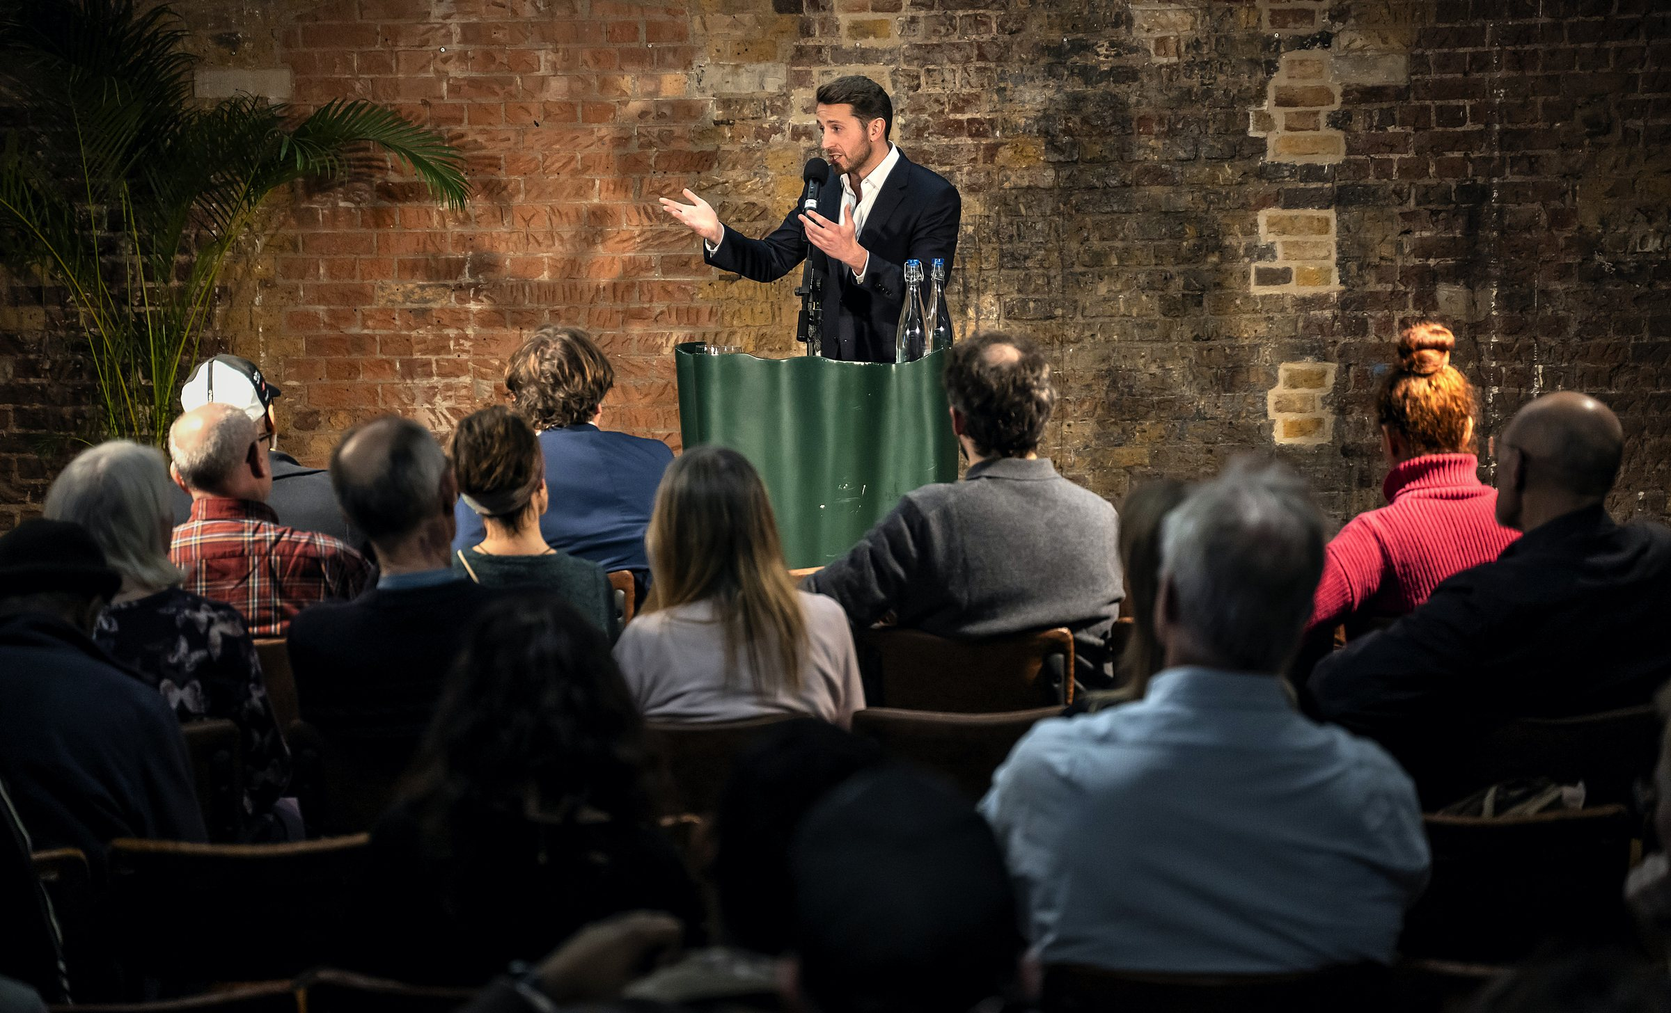
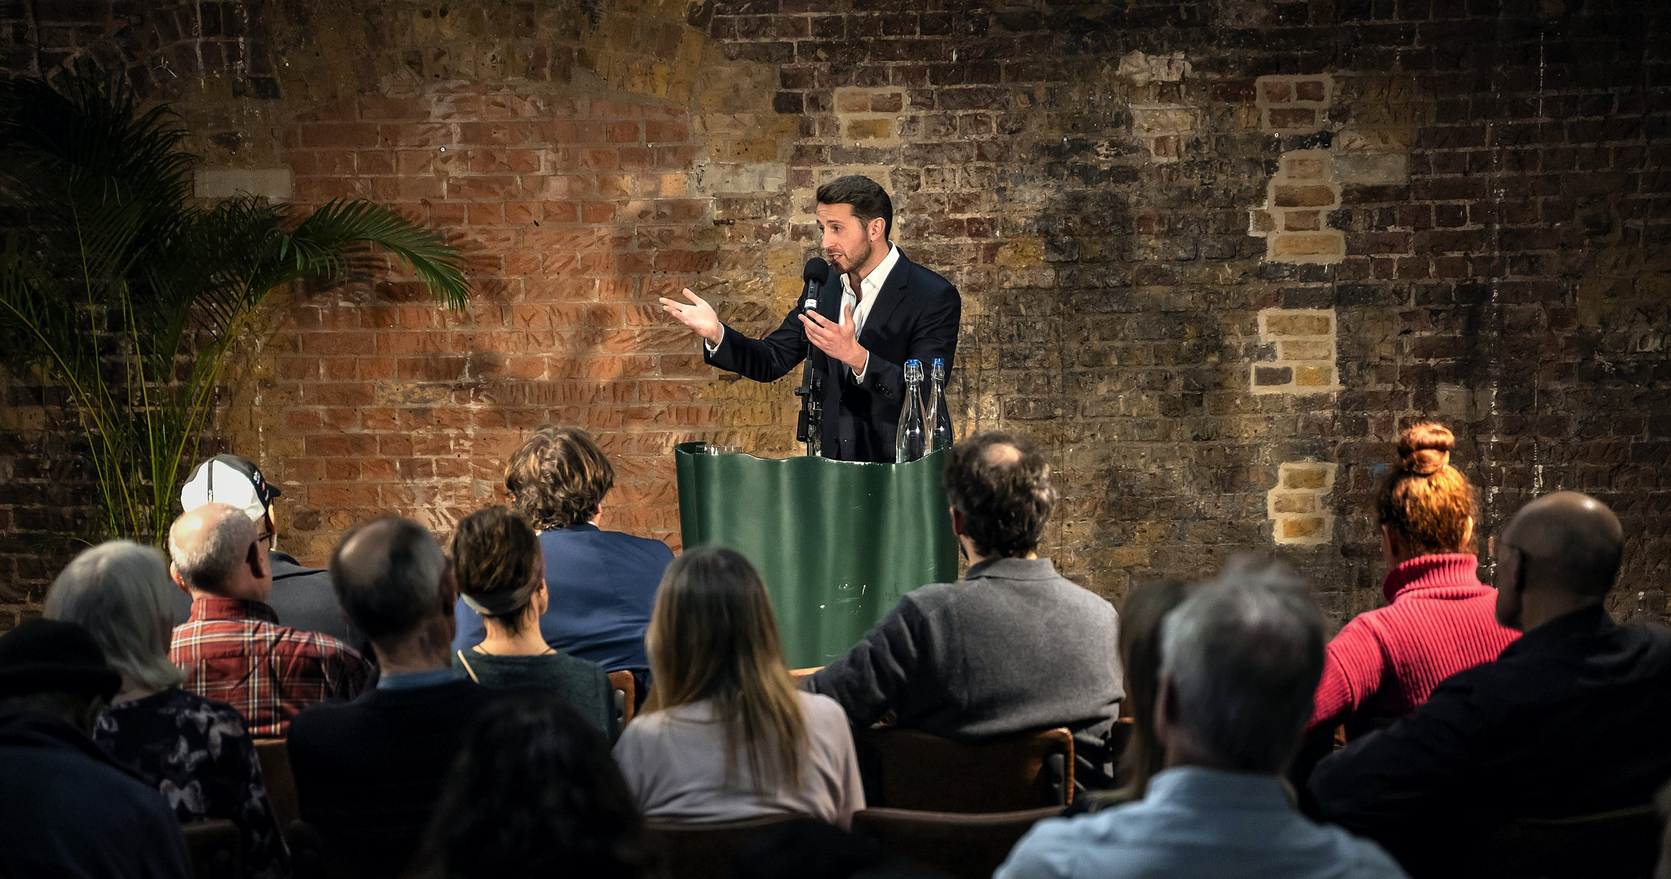
Personal brand: midnight and white, no gold, editorial serif
Own identity, separate from ExecProsec's navy and gold. Ground #05070C, a cool
steel-blue for labels, white buttons with dark ink. Instrument Serif carries the
name, the numbers and panel headlines; Inter carries everything else.

Also: rebuilt the homepage crop so his face is never cut by the header, retuned
every panel's focal point, and cut the Photographs page from 37 to a curated 18
with no two shots from the same set.

diff --git a/index.html b/index.html
@@ -8,30 +8,31 @@
 <link rel="icon" type="image/svg+xml" href="favicon.svg">
 <style>
   *{box-sizing:border-box;margin:0;padding:0}
-  :root{--ink:#050608;--gold:#C6A15B;--soft:rgba(244,245,247,.62);
+  :root{--ink:#05070C;--navy:#0B1220;--gold:#9FB4D4;--soft:rgba(255,255,255,.64);--hair:rgba(255,255,255,.12);
     /* HERO FACE-FOCUS RULE — Marcus's face is always the focal point of the hero.
        The background locks onto these coordinates so, no matter what else changes
        on the site, his face stays consistently and pleasingly placed. If the hero
        image (mjb-bg.jpg) is ever replaced, update ONLY these three values. */
     --hero-zoom:118%;  /* how far to zoom in on the face (background-size height) */
     --hero-x:50%;      /* face horizontal focal position */
-    --hero-y:46%}       /* vertical focal: top of head sits just under the titles (clear gap), only the tops of the audience peek in at the bottom */
-  @font-face{font-family:'Archivo';src:url('fonts/archivo-latin.woff2') format('woff2');font-weight:300 700;font-style:normal;font-display:swap}
+    --hero-y:32%}       /* vertical focal: top of head sits just under the titles (clear gap), only the tops of the audience peek in at the bottom */
+  @font-face{font-family:'Inter';src:url('fonts/inter-latin.woff2') format('woff2');font-weight:300 700;font-style:normal;font-display:swap}
+  @font-face{font-family:'Instrument Serif';src:url('fonts/instrument-serif-latin.woff2') format('woff2');font-weight:400;font-style:normal;font-display:swap}
   html,body{height:100%}
-  body{font-family:'Archivo',-apple-system,'Segoe UI',Helvetica,Arial,sans-serif;background:var(--ink);color:#fff;-webkit-font-smoothing:antialiased;overflow:hidden}
+  body{font-family:'Inter',-apple-system,'Segoe UI',Helvetica,Arial,sans-serif;background:var(--ink);color:#fff;-webkit-font-smoothing:antialiased;overflow:hidden}
   /* HERO with photo on the right (drop your photo in as hero.jpg) */
   .hero{position:relative;height:100vh;min-height:600px;overflow:hidden}
   .hero .bg{position:absolute;inset:0;background:transparent;display:none}
-  .hero .grad{position:absolute;inset:0;background:linear-gradient(95deg,rgba(5,6,8,.92) 0%,rgba(5,6,8,.8) 28%,rgba(5,6,8,.5) 48%,rgba(5,6,8,.18) 68%,rgba(5,6,8,.03) 100%)}
+  .hero .grad{position:absolute;inset:0;background:linear-gradient(95deg,rgba(5,7,12,.92) 0%,rgba(5,7,12,.8) 28%,rgba(5,7,12,.5) 48%,rgba(5,7,12,.18) 68%,rgba(5,7,12,.03) 100%)}
   .hero .vig{position:absolute;inset:0;background:radial-gradient(120% 120% at 70% 40%,rgba(0,0,0,0) 40%,rgba(0,0,0,.45) 100%)}
   /* rotating hero carousel — JS crossfades the .slide layers every 4s */
-  .hero .herobg{position:absolute;inset:0;background:#050608 url('mjb-home.jpg') var(--hero-x) var(--hero-y)/cover no-repeat}
+  .hero .herobg{position:absolute;inset:0;background:#05070C url('mjb-home.jpg') var(--hero-x) var(--hero-y)/cover no-repeat}
   @media(max-width:900px){.hero .herobg{background-size:cover;background-position:var(--hero-x) var(--hero-y)}}
   .hero .svid video{width:100%;height:100%;object-fit:cover;display:block}
   /* social-proof metrics */
   .metrics{display:flex;justify-content:center;gap:46px;margin:22px auto 6px;flex-wrap:wrap}
   .metric{text-align:center;min-width:110px}
-  .metric b{display:block;font-size:29px;font-weight:700;color:#fff;line-height:1}
+  .metric b{display:block;font-family:'Instrument Serif',Georgia,serif;font-size:40px;font-weight:400;letter-spacing:.01em;color:#fff;line-height:1}
   .metric span{display:block;font-size:10.5px;letter-spacing:.16em;text-transform:uppercase;color:var(--soft);margin-top:6px}
   /* press coverage panel — opens in the left dark section */
   .presspanel{position:absolute;z-index:9;left:48px;top:50%;transform:translateY(-50%);width:46%;max-width:600px;max-height:84vh;display:none;flex-direction:column}
@@ -58,9 +59,9 @@
   /* header */
   header{position:absolute;top:0;left:0;right:0;z-index:10;display:flex;align-items:center;justify-content:space-between;padding:17px 56px;pointer-events:none;background:rgba(8,9,12,.9);border-bottom:1px solid rgba(255,255,255,.08)}
   header .brand,header nav a,header nav button{pointer-events:auto}
-  .brand{display:inline-flex;align-items:center;gap:13px;font-size:23px;font-weight:300;letter-spacing:.34em;color:#fff;text-decoration:none;cursor:pointer}
+  .brand{display:inline-flex;align-items:center;gap:13px;font-family:'Instrument Serif',Georgia,serif;font-size:29px;font-weight:400;letter-spacing:.13em;color:#fff;text-decoration:none;cursor:pointer}
   .brandmark{width:25px;height:25px;flex:none}
-  .bio{font-size:16.5px;line-height:1.72;color:rgba(255,255,255,.86);max-width:660px;margin:0 auto 26px}
+  .bio{font-size:16.5px;line-height:1.74;color:rgba(255,255,255,.82);max-width:660px;margin:0 auto 26px;font-weight:300}
   .social-title{margin-top:38px}
   .socials-left{display:flex;flex-wrap:wrap;justify-content:center;gap:26px;margin-top:14px}
   .socials-left a{display:inline-flex;color:#fff;opacity:.72;transition:opacity .15s,transform .12s}
@@ -74,7 +75,7 @@
   .sub-row input:not(.cf-hp){width:100%;background:rgba(255,255,255,.05);border:1px solid rgba(255,255,255,.18);border-radius:2px;color:#fff;font-family:inherit;font-size:14px;padding:13px 14px;outline:none;transition:border-color .15s}
   .sub-row input:not(.cf-hp):focus{border-color:var(--gold)}
   .sub-row input:not(.cf-hp)::placeholder{color:rgba(255,255,255,.4)}
-  .sub-row button{border:none;border-radius:2px;background:var(--gold);color:#100C05;font-weight:700;font-size:14px;letter-spacing:.02em;padding:13px;cursor:pointer;font-family:inherit;transition:filter .15s}
+  .sub-row button{border:none;border-radius:2px;background:#fff;color:#05070C;font-weight:700;font-size:14px;letter-spacing:.02em;padding:13px;cursor:pointer;font-family:inherit;transition:filter .15s}
   .sub-row button:hover{filter:brightness(1.06)}
   .sub-row button:disabled{opacity:.5;cursor:default}
   #sub-thanks{display:none;color:var(--gold);font-size:14px;margin-top:14px;font-weight:500}
@@ -132,7 +133,7 @@
   .tile img{width:100%;height:150px;object-fit:cover;display:block}
   .tile .ph{height:150px;display:flex;align-items:center;justify-content:center;color:rgba(255,255,255,.38);font-size:12px;letter-spacing:.06em;text-align:center;padding:10px}
   .tile .dl{display:block;text-align:center;padding:11px;font-size:13px;font-weight:600;color:var(--gold);cursor:pointer;border-top:1px solid rgba(255,255,255,.1)}
-  .tile .dl:hover{background:rgba(198,161,91,.12)}
+  .tile .dl:hover{background:rgba(159,180,212,.12)}
   .tile .dl[aria-disabled=true]{color:rgba(255,255,255,.28);cursor:default}
   .tile .dl[aria-disabled=true]:hover{background:none}
   .galnote{margin-top:18px;font-size:12.5px;color:var(--soft)}
@@ -145,7 +146,7 @@
   .x{position:absolute;top:16px;right:18px;background:none;border:none;color:rgba(255,255,255,.5);font-size:22px;cursor:pointer}
   .opt{display:flex;flex-direction:column;gap:10px;margin-top:20px}
   .opt a,.opt button{display:block;text-align:left;border:1px solid rgba(255,255,255,.16);background:rgba(255,255,255,.04);color:#fff;border-radius:2px;padding:15px 17px;font-family:inherit;font-size:14.5px;cursor:pointer;text-decoration:none;transition:border-color .15s,background .15s}
-  .opt a:hover,.opt button:hover{border-color:var(--gold);background:rgba(198,161,91,.1)}
+  .opt a:hover,.opt button:hover{border-color:var(--gold);background:rgba(159,180,212,.1)}
   .opt .sub{display:block;font-size:12px;color:var(--soft);margin-top:3px}
   @media(max-width:720px){header{padding:22px 22px}.covered{left:22px;right:22px;max-width:none;top:auto;bottom:120px;transform:none}.brand{font-size:16px;letter-spacing:.24em}nav{gap:18px}nav a,nav button{font-size:10.5px;letter-spacing:.12em}.grid{grid-template-columns:repeat(2,1fr);gap:14px}footer{padding:18px 22px}}
   .cf-row{display:flex;gap:10px}
@@ -164,17 +165,17 @@
   .cp-thanks h3{font-size:21px;font-weight:500;margin:14px 0 0;color:#fff}
   @media(max-width:720px){.cp-row{flex-direction:column;gap:0}.cp-form input,.cp-form textarea{font-size:16px}.cp-foot .cf-send{width:100%;min-height:48px}}
   .cf-hp{position:absolute!important;left:-9999px;width:1px;height:1px;opacity:0}
-  .cf-send{width:100%;margin-top:14px;border:none;border-radius:2px;background:var(--gold);color:#100C05;font-weight:700;font-size:15px;padding:14px;cursor:pointer;font-family:inherit}
+  .cf-send{width:100%;margin-top:14px;border:none;border-radius:2px;background:#fff;color:#05070C;font-weight:700;font-size:15px;padding:14px;cursor:pointer;font-family:inherit}
   .cf-send:hover{filter:brightness(1.06)}.cf-send:disabled{opacity:.5;cursor:default}
   #cf-thanks{display:none;text-align:center;padding:16px 4px 6px}
-  .cf-tick{width:56px;height:56px;border-radius:50%;background:rgba(198,161,91,.16);color:var(--gold);font-size:27px;display:flex;align-items:center;justify-content:center;margin:4px auto 14px}
+  .cf-tick{width:56px;height:56px;border-radius:50%;background:rgba(159,180,212,.16);color:var(--gold);font-size:27px;display:flex;align-items:center;justify-content:center;margin:4px auto 14px}
   #cf-thanks h3{font-size:18px;margin:0 0 8px;color:#fff}
   #cf-thanks p{color:var(--soft);font-size:14px;margin:0}
   /* generic left scroll panel body (biography / photographs / press) */
   .pp-body{overflow-y:auto;padding-right:8px}
   .pp-body::-webkit-scrollbar{width:7px}
   .pp-body::-webkit-scrollbar-thumb{background:rgba(255,255,255,.16);border-radius:4px}
-  .bio-h1{font-size:21px;color:#fff;font-weight:600;margin:2px 0 8px}
+  .bio-h1{font-family:'Instrument Serif',Georgia,serif;font-size:29px;color:#fff;font-weight:400;letter-spacing:.01em;margin:2px 0 10px}
   .bio-h{font-size:13.5px;letter-spacing:.14em;text-transform:uppercase;color:var(--gold);font-weight:600;margin:30px 0 11px}
   .bio-p{font-size:17px;line-height:1.7;color:rgba(255,255,255,.86);margin:0 0 16px}
   .pp-note{font-size:12.5px;color:var(--soft);margin:0 0 14px}
@@ -185,7 +186,7 @@
     .hero{height:auto;min-height:auto;overflow:visible}
     .hero .herobg,.hero .grad,.hero .vig{bottom:auto;height:58vh}
     .hero .herobg{background-size:cover;background-position:var(--hero-x) var(--hero-y)}
-    .hero .grad{background:linear-gradient(180deg,rgba(5,6,8,.55) 0%,rgba(5,6,8,0) 26%,rgba(5,6,8,.5) 74%,#050608 100%)}
+    .hero .grad{background:linear-gradient(180deg,rgba(5,7,12,.55) 0%,rgba(5,7,12,0) 26%,rgba(5,7,12,.5) 74%,#05070C 100%)}
     header{padding:15px 18px;flex-wrap:wrap;gap:4px 10px}
     .brand{font-size:15px;letter-spacing:.22em;gap:9px}.brandmark{width:18px;height:18px}
     nav{gap:3px 12px;flex-wrap:wrap;justify-content:flex-start;width:100%;margin-top:4px}
@@ -217,8 +218,8 @@
 @media(max-width:900px){.mjb-sqcol:nth-child(3){display:none}}
 @media(max-width:600px){.mjb-sq{gap:0}.mjb-sqcol:nth-child(2){display:none}.mjb-sqcol{max-width:none}}
 @media(prefers-reduced-motion:reduce){.mjb-sqcolinner{animation:none}}
-nav a.nav-cta{background:var(--gold);color:#100C05;padding:9px 18px;border-radius:2px;font-weight:600;opacity:1;letter-spacing:.16em;box-shadow:none;transition:transform .2s ease,background .2s ease}
-nav a.nav-cta:hover{color:#100C05;opacity:1;transform:translateY(-2px);background:#D8B570}
+nav a.nav-cta{background:#fff;color:#05070C;padding:10px 20px;border-radius:2px;font-weight:600;opacity:1;letter-spacing:.16em;box-shadow:none;transition:transform .2s ease,background .2s ease}
+nav a.nav-cta:hover{color:#05070C;opacity:1;transform:translateY(-2px);background:rgba(255,255,255,.86)}
 </style>
 <style>
 /* photo Expand lightbox */
@@ -226,13 +227,13 @@ nav a.nav-cta:hover{color:#100C05;opacity:1;transform:translateY(-2px);backgroun
 .tile-acts{display:flex;border-top:1px solid rgba(255,255,255,.1)}
 .tact{flex:1;text-align:center;padding:11px;font-size:13px;font-weight:600;color:var(--gold);cursor:pointer;border:none;background:none;font-family:inherit;text-decoration:none}
 .tact+.tact{border-left:1px solid rgba(255,255,255,.1)}
-.tact:hover{background:rgba(198,161,91,.12)}
+.tact:hover{background:rgba(159,180,212,.12)}
 #m-photo{z-index:80}
 .m-photo-wrap{position:relative;max-width:92vw;max-height:88vh}
 #m-photo img{max-width:92vw;max-height:88vh;width:auto;height:auto;display:block;border-radius:2px;box-shadow:0 24px 70px rgba(0,0,0,.7)}
 .m-photo-x{position:absolute;top:-16px;right:-16px;width:40px;height:40px;border-radius:50%;background:var(--ink);border:1px solid rgba(255,255,255,.32);color:#fff;font-size:20px;line-height:36px;cursor:pointer;padding:0}
 /* rotating second hero layer (P20), face kept right-of-centre */
-.hero .herobg2{position:absolute;inset:0;background:#050608 url('photos/event-audience-2.jpg') 50% 45%/cover no-repeat;opacity:0;pointer-events:none}
+.hero .herobg2{position:absolute;inset:0;background:#05070C url('photos/event-audience-2.jpg') 50% 45%/cover no-repeat;opacity:0;pointer-events:none}
 @media(max-width:900px){.hero .herobg2{background-size:cover;background-position:64% 28%}}
 @media(prefers-reduced-motion:reduce){.hero .herobg2{transition:none}}
 </style>
@@ -257,8 +258,8 @@ nav a.nav-cta:hover{color:#100C05;opacity:1;transform:translateY(-2px);backgroun
   .brand{order:1;font-size:15px;letter-spacing:.2em;gap:9px;min-height:46px;align-items:center}
   header nav{position:fixed;left:0;right:0;top:70px;z-index:70;display:none;
     flex-direction:column;align-items:stretch;gap:0;width:auto;margin:0;
-    padding:8px 0 14px;background:rgba(5,6,8,.98);
-    border-top:1px solid rgba(255,255,255,.10);border-bottom:1px solid rgba(198,161,91,.35);
+    padding:8px 0 14px;background:rgba(5,7,12,.98);
+    border-top:1px solid rgba(255,255,255,.10);border-bottom:1px solid rgba(159,180,212,.35);
     box-shadow:0 18px 40px rgba(0,0,0,.55);max-height:calc(100vh - 70px);overflow-y:auto}
   body.navopen header nav{display:flex}
   header nav a,header nav button{display:flex;align-items:center;width:100%;
@@ -267,7 +268,7 @@ nav a.nav-cta:hover{color:#100C05;opacity:1;transform:translateY(-2px);backgroun
     background:none;color:#f2f2f2;opacity:1}
   header nav a:last-child{border-bottom:0}
   header nav a.nav-cta{margin:12px 20px 2px;width:auto;justify-content:center;min-height:52px;
-    font-size:14px;letter-spacing:.14em;border-radius:2px;background:var(--gold);color:#100C05}
+    font-size:14px;letter-spacing:.14em;border-radius:2px;background:#fff;color:#05070C;font-weight:600}
   /* the hero starts below the single-row header now */
   .covered{padding-top:calc(58vh + 14px)}
 
@@ -374,7 +375,7 @@ nav a.nav-cta:hover{color:#100C05;opacity:1;transform:translateY(-2px);backgroun
       <a href="https://www.instagram.com/marcusjball/" target="_blank" rel="noopener" aria-label="Instagram"><svg viewBox="0 0 24 24" style="fill:none" stroke="#fff" stroke-width="1.9"><rect x="2.5" y="2.5" width="19" height="19" rx="5.5"/><circle cx="12" cy="12" r="4.8"/><circle cx="17.6" cy="6.4" r="1.3" style="fill:#fff" stroke="none"/></svg></a>
       <a href="https://x.com/MarcusJBall" target="_blank" rel="noopener" aria-label="X"><svg viewBox="0 0 24 24" stroke="#fff" stroke-width="2.3" stroke-linecap="round"><path d="M5 5l14 14M19 5L5 19"/></svg></a>
       <a href="https://www.facebook.com/MarcusJBallUK/" target="_blank" rel="noopener" aria-label="Facebook"><svg viewBox="0 0 24 24" fill="#fff"><path d="M13.5 21v-7H16l.4-3h-2.9V9c0-.85.25-1.4 1.5-1.4H16.5V5c-.3 0-1.3-.1-2.4-.1-2.4 0-4 1.45-4 4.1V11H8v3h2.1v7z"/></svg></a>
-      <a href="https://www.youtube.com/@MarcusJBall" target="_blank" rel="noopener" aria-label="YouTube"><svg viewBox="0 0 24 24"><rect x="1.8" y="5.2" width="20.4" height="13.6" rx="4.4" fill="#fff"/><path d="M10 8.8l5.6 3.2-5.6 3.2z" fill="#050608"/></svg></a>
+      <a href="https://www.youtube.com/@MarcusJBall" target="_blank" rel="noopener" aria-label="YouTube"><svg viewBox="0 0 24 24"><rect x="1.8" y="5.2" width="20.4" height="13.6" rx="4.4" fill="#fff"/><path d="M10 8.8l5.6 3.2-5.6 3.2z" fill="#05070C"/></svg></a>
       <a href="https://uk.linkedin.com/in/marcus-j-ball-b7110a26" target="_blank" rel="noopener" aria-label="LinkedIn"><svg viewBox="0 0 24 24" fill="#fff"><path d="M4.5 3.5a2 2 0 1 0 0 4 2 2 0 0 0 0-4zM3 9h3v12H3zM9 9h2.85v1.7h.04c.4-.75 1.4-1.55 2.9-1.55 3.05 0 3.6 2 3.6 4.6V21h-3v-5.4c0-1.3 0-3-1.8-3s-2.1 1.4-2.1 2.9V21H9z"/></svg></a>
       <a href="https://www.tiktok.com/@execprosec" target="_blank" rel="noopener" aria-label="TikTok"><svg viewBox="0 0 24 24" fill="#fff"><path d="M14 3c.35 2.1 1.7 3.75 3.9 4.05v2.5c-1.3 0-2.6-.42-3.9-1.15V15a5.05 5.05 0 1 1-5.05-5.05c.32 0 .64.03.95.08v2.6a2.45 2.45 0 1 0 1.7 2.34V3z"/></svg></a>
     </div>
@@ -431,7 +432,7 @@ nav a.nav-cta:hover{color:#100C05;opacity:1;transform:translateY(-2px);backgroun
 </div>
 
 <script src="bio-data.js?v=kazeem2"></script>
-<script src="photos-data.js?v=newphotos"></script>
+<script src="photos-data.js?v=curated"></script>
 <script src="press-data.js"></script>
 <script src="testimonials-data.js"></script>
 <script>
@@ -681,14 +682,14 @@ function mjbToggleNav(force){
 (function(){
   var A=document.querySelector('.hero .herobg'), B=document.querySelector('.hero .herobg2'); if(!A||!B) return;
   var BG={
-    home:{img:'mjb-home.jpg',size:'cover',pos:'50% 50%',mpos:'50% 42%'},
-    bio:{img:'photos/tv-wall-wide.jpg',size:'cover',pos:'50% 40%',mpos:'55% 38%'},
-    testimonials:{img:'photos/event-audience-2.jpg',size:'cover',pos:'50% 45%',mpos:'55% 40%'},
-    press:{img:'photos/court-interview.jpg',size:'cover',pos:'55% 35%',mpos:'55% 32%'},
-    contact:{img:'photos/at-home-window.jpg',size:'cover',pos:'52% 45%',mpos:'55% 40%'},
-    photos:{img:'photos/event-room-wide.jpg',size:'cover',pos:'50% 42%',mpos:'55% 38%'}
+    home:{img:'mjb-home.jpg',size:'cover',pos:'50% 32%',mpos:'50% 30%'},
+    bio:{img:'photos/tv-wall-wide.jpg',size:'cover',pos:'57% 22%',mpos:'57% 18%'},
+    testimonials:{img:'photos/event-audience-2.jpg',size:'cover',pos:'38% 46%',mpos:'52% 40%'},
+    press:{img:'photos/court-interview.jpg',size:'cover',pos:'36% 44%',mpos:'38% 40%'},
+    contact:{img:'photos/at-home-window.jpg',size:'cover',pos:'55% 46%',mpos:'57% 42%'},
+    photos:{img:'photos/event-room-wide.jpg',size:'cover',pos:'45% 46%',mpos:'55% 42%'}
   };
-  function apply(el,sl){ var mob=window.innerWidth<=900; el.style.backgroundColor='#050608'; el.style.backgroundImage="url('"+sl.img+"')"; el.style.backgroundRepeat='no-repeat'; el.style.backgroundSize=mob?'cover':sl.size; el.style.backgroundPosition=mob?sl.mpos:sl.pos; }
+  function apply(el,sl){ var mob=window.innerWidth<=900; el.style.backgroundColor='#05070C'; el.style.backgroundImage="url('"+sl.img+"')"; el.style.backgroundRepeat='no-repeat'; el.style.backgroundSize=mob?'cover':sl.size; el.style.backgroundPosition=mob?sl.mpos:sl.pos; }
   var layers=[A,B], active=0, curKind='home';
   A.style.opacity='1'; B.style.opacity='0';
   window.setHeroBg=function(kind){ var sl=BG[kind]; if(!sl){ kind='home'; sl=BG.home; } if(kind===curKind) return; curKind=kind; var inc=layers[1-active]; apply(inc,sl); inc.style.opacity='1'; layers[active].style.opacity='0'; active=1-active; };

diff --git a/photos-data.js b/photos-data.js
@@ -1,1 +1,1 @@
-window.PHOTOS=[{"a":"Marcus J Ball speaking to reporters outside court","f":"photos/court-press-scrum.jpg"},{"a":"Marcus J Ball with supporters outside court","f":"photos/court-supporters.jpg"},{"a":"The team outside Westminster Magistrates’ Court","f":"photos/westminster-court-group.jpg"},{"a":"Marcus J Ball and the team outside Westminster Magistrates’ Court","f":"photos/westminster-court-team.jpg"},{"a":"Marcus J Ball in the crowd outside court","f":"photos/court-crowd.jpg"},{"a":"Marcus J Ball speaking to supporters outside court","f":"photos/court-speaking-to-supporters.jpg"},{"a":"Marcus J Ball being interviewed outside court","f":"photos/court-interview.jpg"},{"a":"Marcus J Ball being filmed outside court","f":"photos/court-filmed.jpg"},{"a":"Marcus J Ball seated in front of a wall of television screens","f":"photos/tv-wall-seated.jpg"},{"a":"Westminster Bridge at dusk","f":"photos/westminster-bridge.jpg"},{"a":"Marcus J Ball on the Cornish coast at sunset","f":"photos/cornwall-sunset.jpg"},{"a":"Marcus J Ball at the National Covid Memorial Wall","f":"photos/covid-memorial-wall-1.jpg"},{"a":"Marcus J Ball at the National Covid Memorial Wall","f":"photos/covid-memorial-wall-2.jpg"},{"a":"Marcus J Ball holding the report outside Parliament","f":"photos/report-parliament-1.jpg"},{"a":"Marcus J Ball holding the report outside Parliament","f":"photos/report-parliament-2.jpg"},{"a":"Marcus J Ball holding the report in front of Big Ben","f":"photos/report-big-ben-1.jpg"},{"a":"Marcus J Ball holding the report in front of Big Ben","f":"photos/report-big-ben-2.jpg"},{"a":"Marcus J Ball holding the report in front of Big Ben","f":"photos/report-big-ben-3.jpg"},{"a":"Marcus J Ball holding the report in front of Big Ben","f":"photos/report-big-ben-4.jpg"},{"a":"Marcus J Ball holding the report in front of Big Ben","f":"photos/report-big-ben-5.jpg"},{"a":"Marcus J Ball with the report, Parliament behind him","f":"photos/report-parliament-wide.jpg"},{"a":"Marcus J Ball holding the report, Big Ben behind him","f":"photos/report-big-ben-portrait.jpg"},{"a":"Marcus J Ball speaking to a packed room","f":"photos/speaking-to-the-room.jpg"},{"a":"The room during an ExecProsec event","f":"photos/event-room-wide.jpg"},{"a":"The audience at an ExecProsec event","f":"photos/event-audience-1.jpg"},{"a":"The audience at an ExecProsec event","f":"photos/event-audience-2.jpg"},{"a":"Marcus J Ball speaking at the lectern","f":"photos/speaking-at-the-lectern.jpg"},{"a":"Marcus J Ball in conversation after speaking","f":"photos/event-conversation-1.jpg"},{"a":"Marcus J Ball in conversation after speaking","f":"photos/event-conversation-2.jpg"},{"a":"Marcus J Ball working with Kazeem Manzur","f":"photos/with-kaz.jpg"},{"a":"Studio portrait of Marcus J Ball","f":"photos/studio-portrait-bw.jpg"},{"a":"Marcus J Ball in a meeting","f":"photos/with-kalum.jpg"},{"a":"Marcus J Ball at home","f":"photos/at-home-window.jpg"},{"a":"Marcus J Ball working on the case","f":"photos/working-on-the-laptop.jpg"},{"a":"Marcus J Ball in the edit","f":"photos/in-the-edit.jpg"},{"a":"Filming Marcus J Ball at the television wall","f":"photos/filming-at-the-tv-wall.jpg"},{"a":"Marcus J Ball in front of a wall of television screens","f":"photos/tv-wall-wide.jpg"}];
+window.PHOTOS=[{"a":"Marcus J Ball speaking to a packed room","f":"photos/speaking-to-the-room.jpg"},{"a":"The team outside Westminster Magistrates’ Court","f":"photos/westminster-court-group.jpg"},{"a":"Marcus J Ball seated in front of a wall of television screens","f":"photos/tv-wall-seated.jpg"},{"a":"Marcus J Ball with the report, Parliament behind him","f":"photos/report-parliament-wide.jpg"},{"a":"The audience at an ExecProsec event","f":"photos/event-audience-2.jpg"},{"a":"Marcus J Ball being interviewed outside court","f":"photos/court-interview.jpg"},{"a":"Studio portrait of Marcus J Ball","f":"photos/studio-portrait-bw.jpg"},{"a":"Marcus J Ball at the National Covid Memorial Wall","f":"photos/covid-memorial-wall-2.jpg"},{"a":"Marcus J Ball in the edit","f":"photos/in-the-edit.jpg"},{"a":"Westminster Bridge at dusk","f":"photos/westminster-bridge.jpg"},{"a":"Marcus J Ball speaking at the lectern","f":"photos/speaking-at-the-lectern.jpg"},{"a":"Marcus J Ball speaking to reporters outside court","f":"photos/court-press-scrum.jpg"},{"a":"Marcus J Ball working on the case","f":"photos/working-on-the-laptop.jpg"},{"a":"Marcus J Ball on the Cornish coast at sunset","f":"photos/cornwall-sunset.jpg"},{"a":"Marcus J Ball in conversation after speaking","f":"photos/event-conversation-1.jpg"},{"a":"Marcus J Ball at home","f":"photos/at-home-window.jpg"},{"a":"Marcus J Ball in front of a wall of television screens","f":"photos/tv-wall-wide.jpg"},{"a":"Marcus J Ball holding the report, Big Ben behind him","f":"photos/report-big-ben-portrait.jpg"}];
